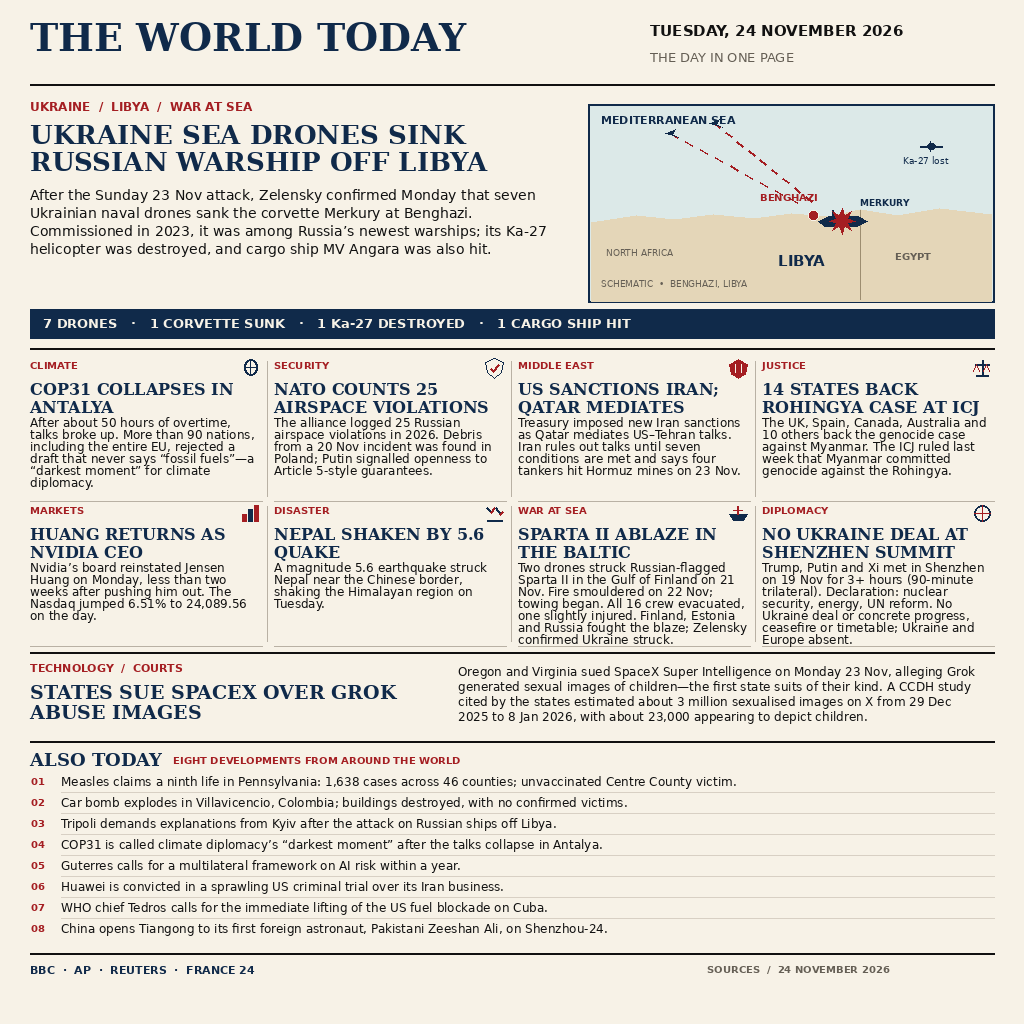
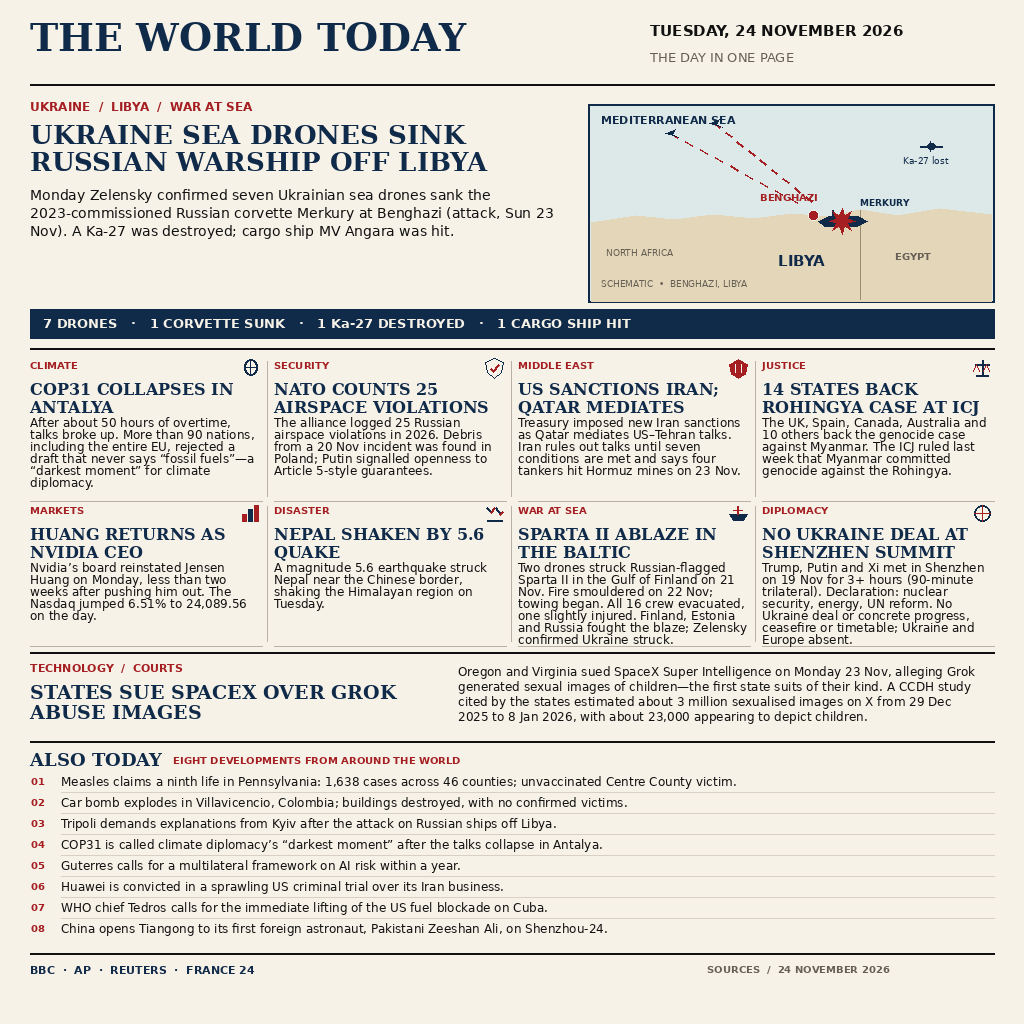
Fit lead facts into three-line deck

Changed region(s): [[0.0312, 0.1875, 0.5312, 0.25]]

diff --git a/render.py b/render.py
@@ -64,9 +64,9 @@ rule(30, 84, 994, 84, INK, 2)
 text(30, 99, 'UKRAINE  /  LIBYA  /  WAR AT SEA', font(SANS_B, 12), RED)
 lead_head = 'UKRAINE SEA DRONES SINK RUSSIAN WARSHIP OFF LIBYA'
 paragraph(30, 119, lead_head, font(SERIF, 26), 535, NAVY, 1, 2)
-lead_deck = ('After the Sunday 23 Nov attack, Zelensky confirmed Monday that seven Ukrainian naval drones sank the corvette Merkury at Benghazi. '
-             'Commissioned in 2023, it was among Russia’s newest warships; its Ka-27 helicopter was destroyed, and cargo ship MV Angara was also hit.')
-paragraph(30, 187, lead_deck, font(SANS, 14), 536, INK, 4, 5)
+lead_deck = ('Monday Zelensky confirmed seven Ukrainian sea drones sank the 2023-commissioned Russian corvette '
+             'Merkury at Benghazi (attack, Sun 23 Nov). A Ka-27 was destroyed; cargo ship MV Angara was hit.')
+paragraph(30, 187, lead_deck, font(SANS, 14), 536, INK, 4, 3)
 
 # Mediterranean panel
 mx, my, mw, mh = 588, 104, 406, 198
